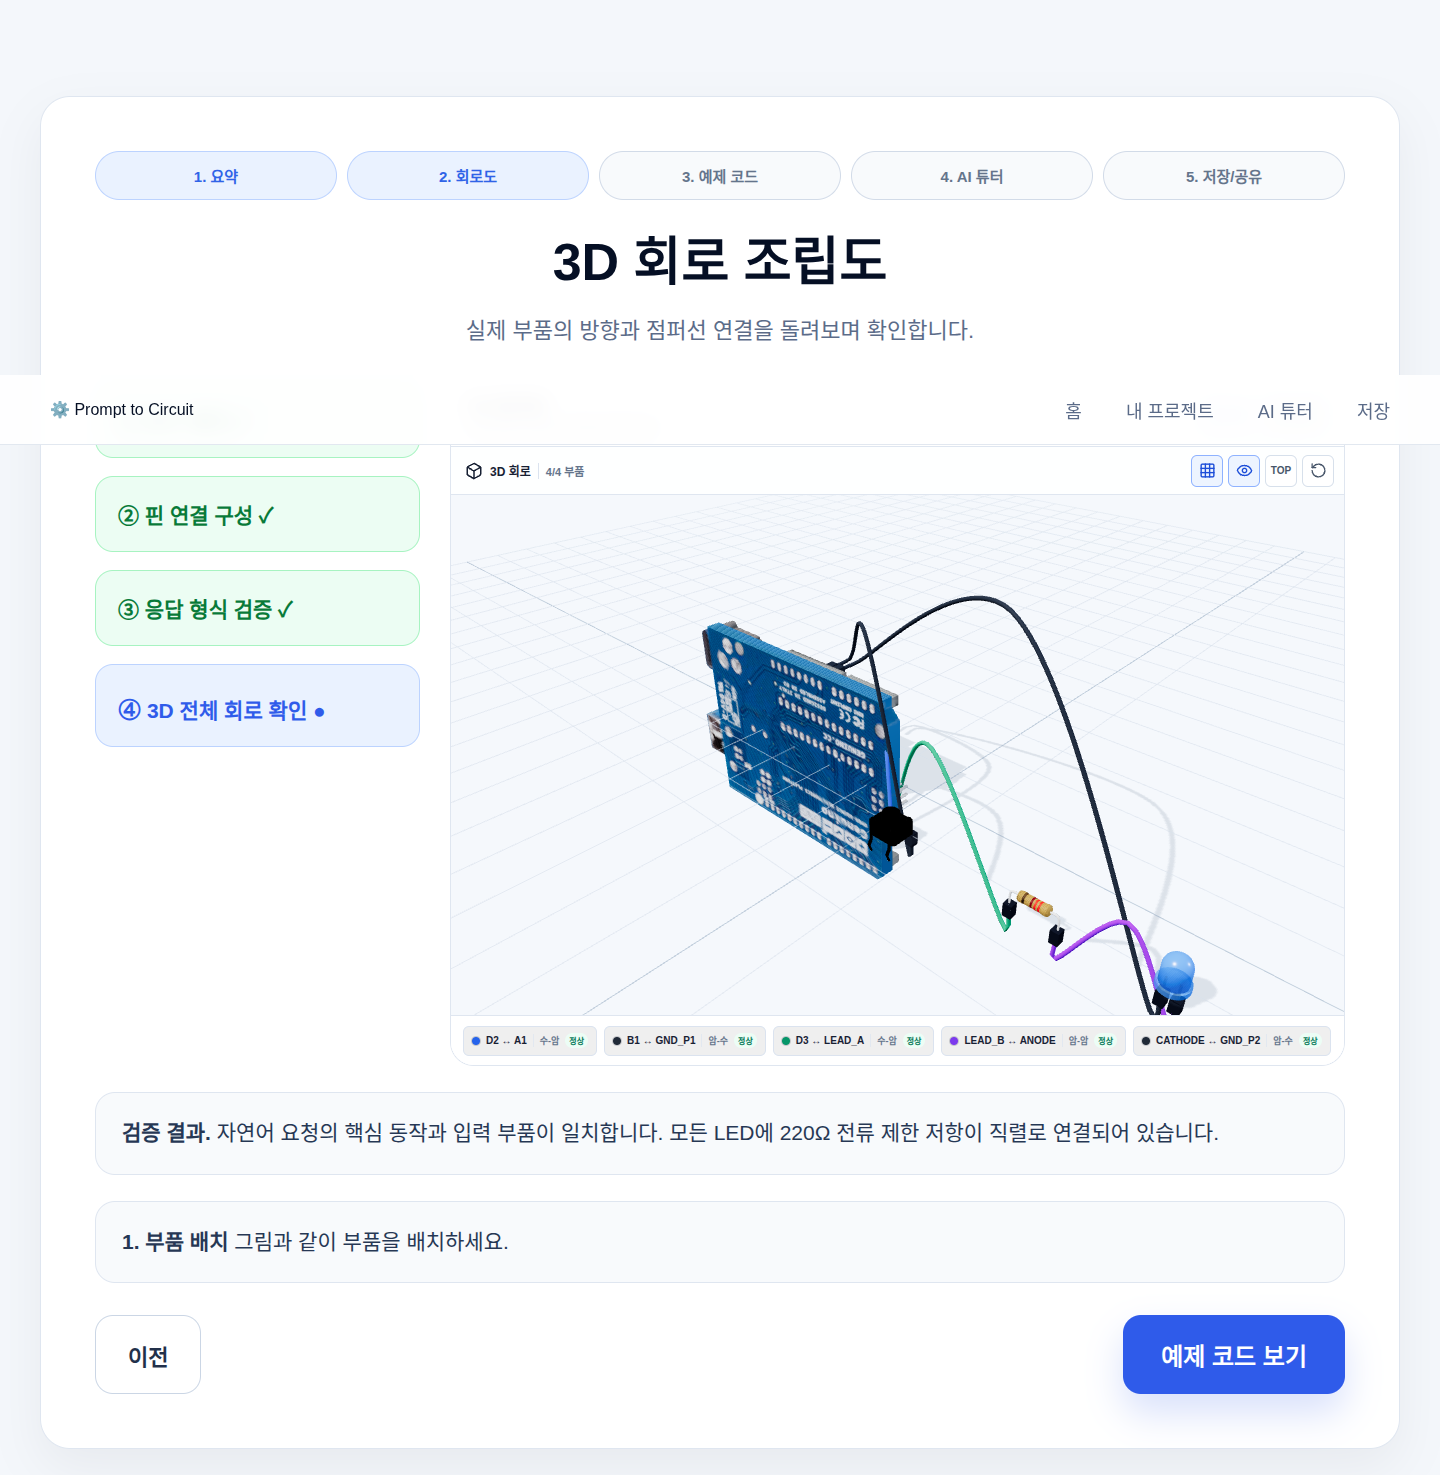
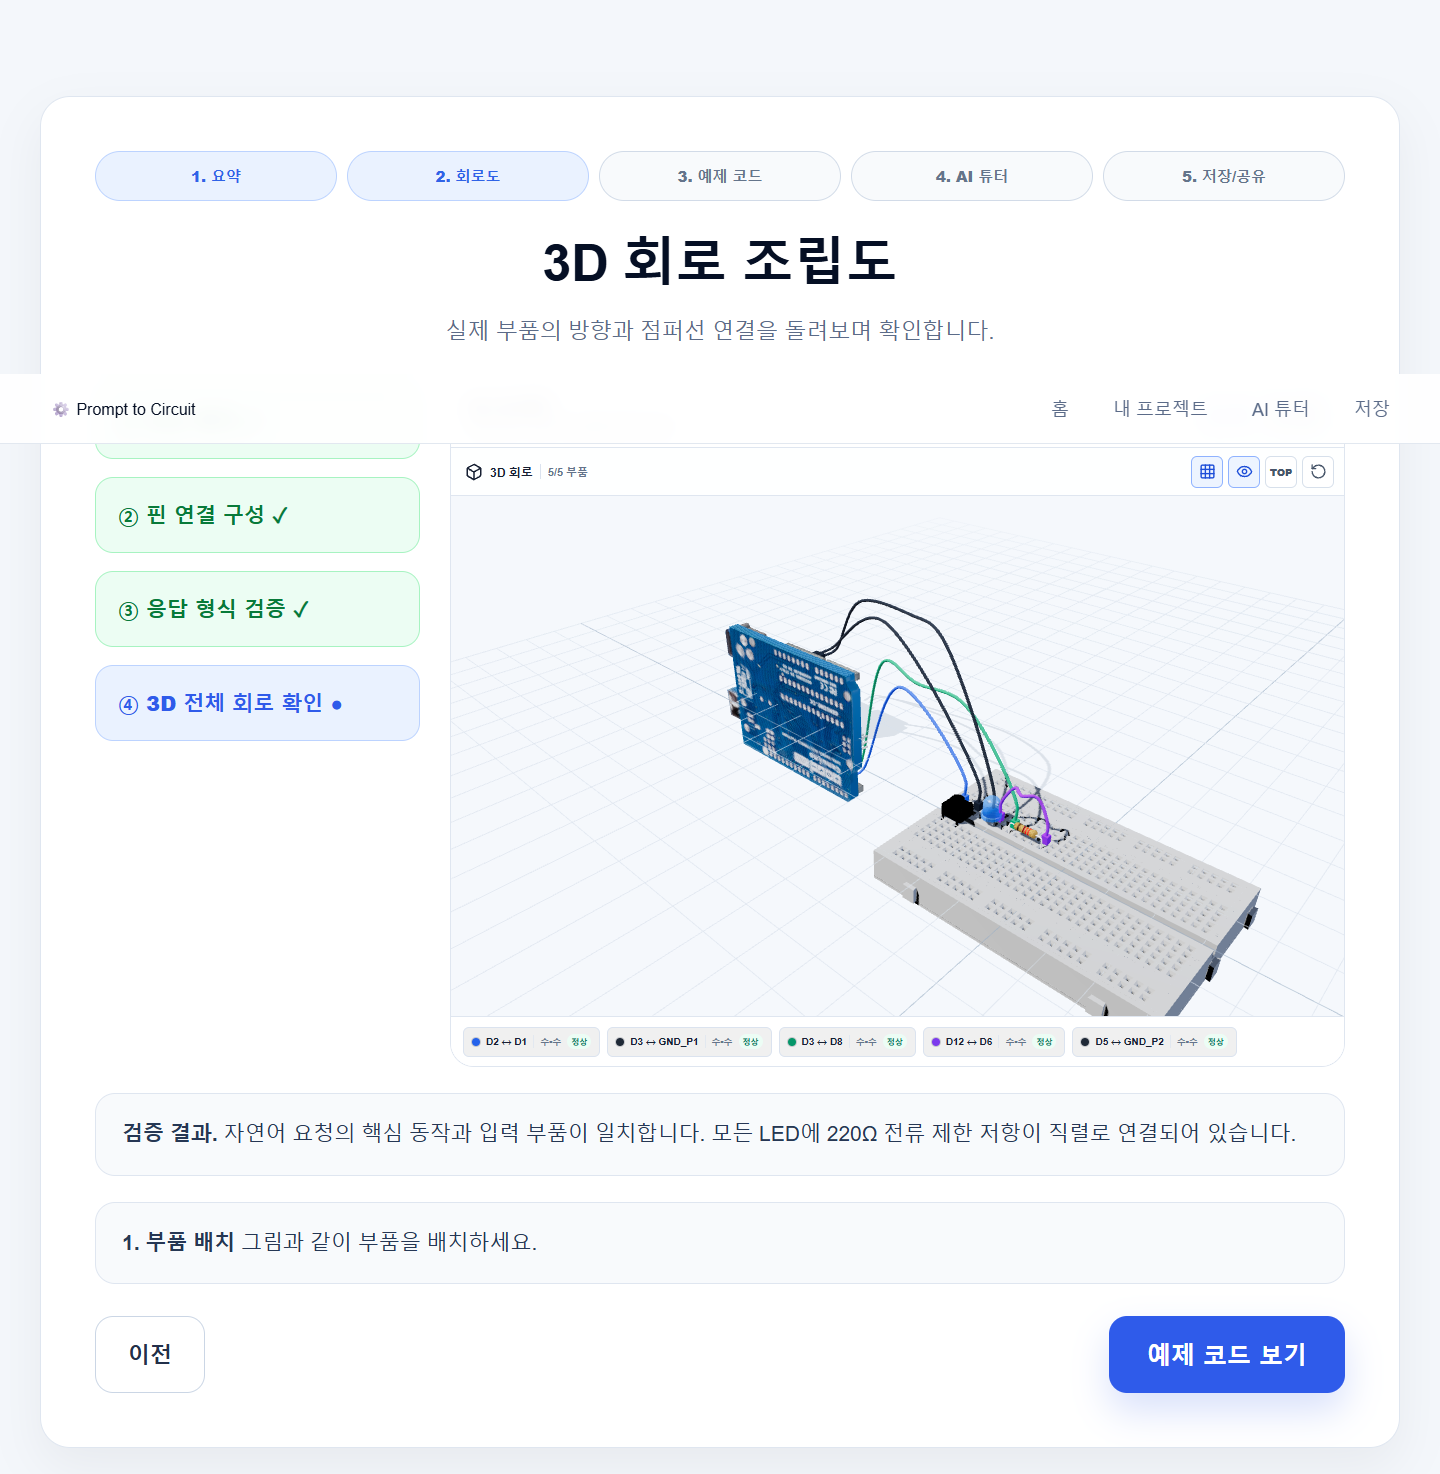
fix: align 3D e2e expectations with breadboard assembly

diff --git a/docs/test-evidence/intent-templates-e2e/README.md b/docs/test-evidence/intent-templates-e2e/README.md
@@ -4,6 +4,6 @@ Run `npm run test:e2e:3d --prefix frontend` while the backend is available at
 `127.0.0.1:8000` and the frontend at `127.0.0.1:5173`.
 
 The test submits five representative natural-language prompts through the real
-browser UI, opens the 3D circuit page, waits for all four GLB parts, verifies the
-rendered WebGL canvas and jumper-wire count, and writes one full-page screenshot
-per demo into this directory.
+browser UI, opens the 3D circuit page, waits for all five rendered parts including
+the generated breadboard, verifies the WebGL canvas and jumper-wire count, and
+writes one full-page screenshot per demo into this directory.
